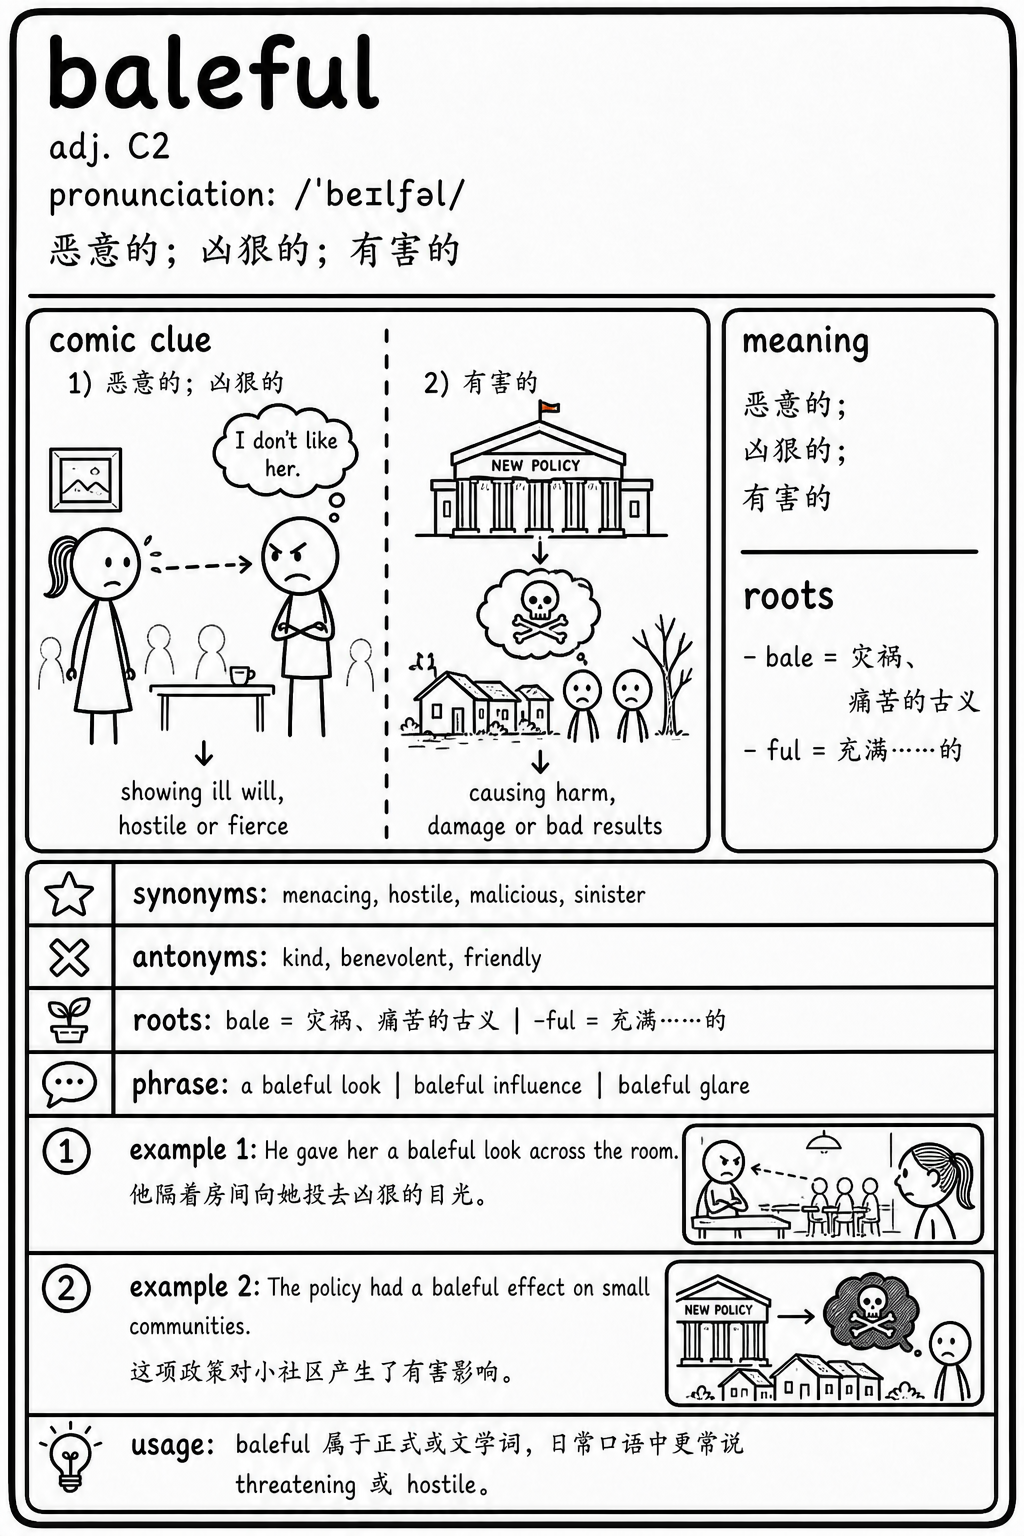
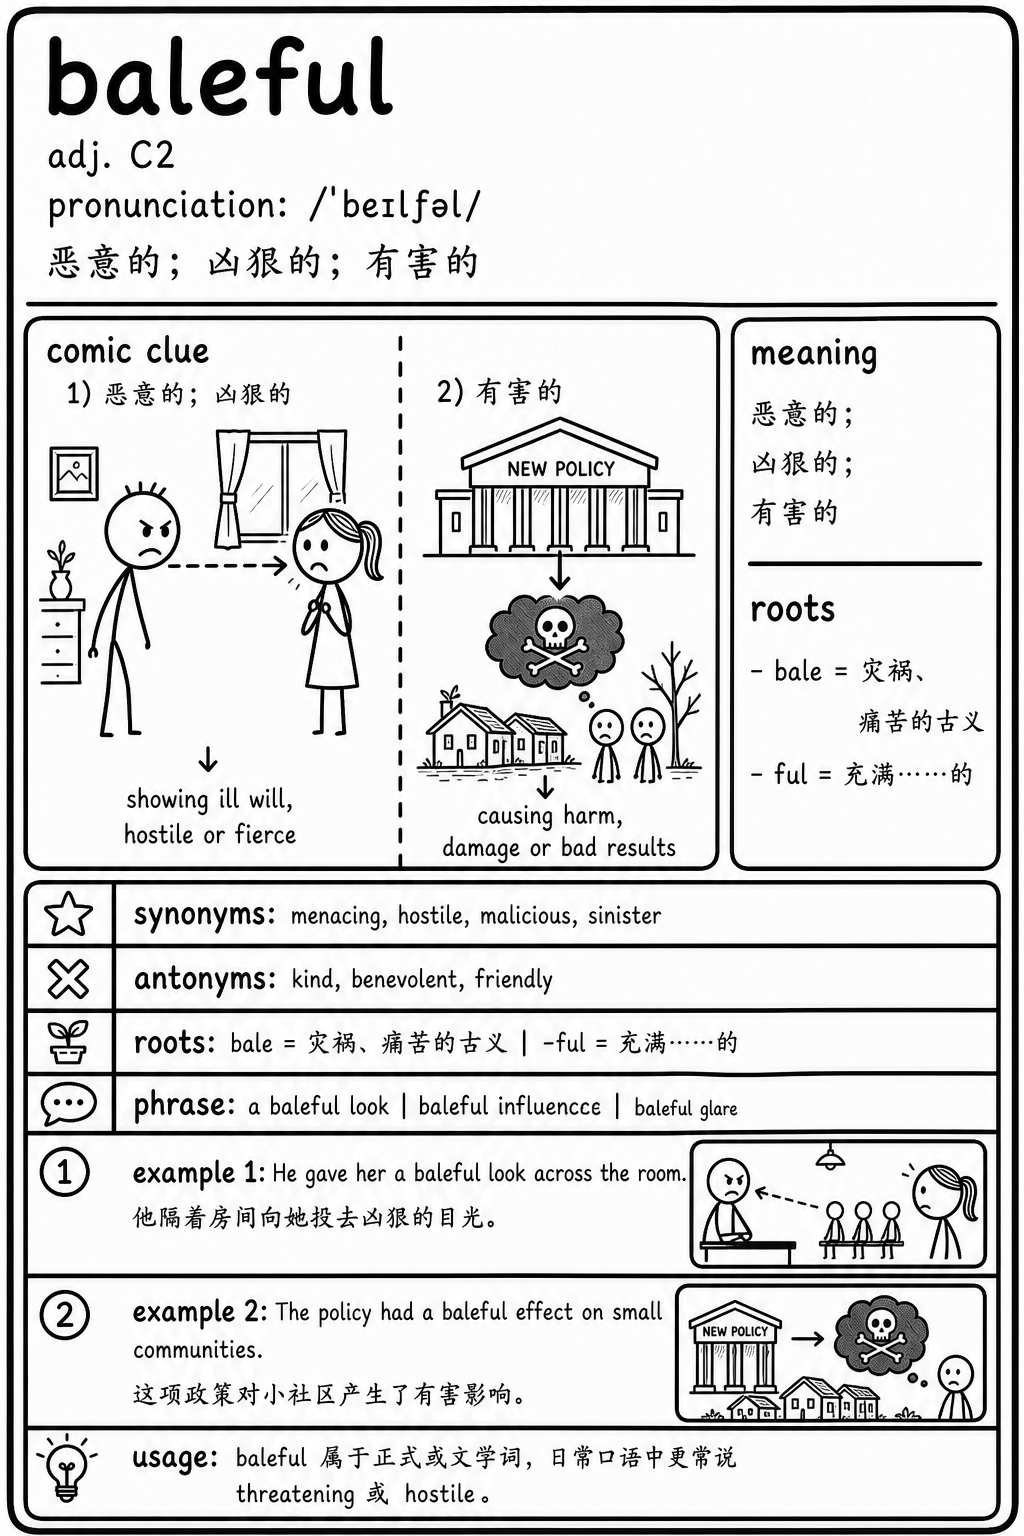
Add second word card checkpoint

Changed region(s): [[0.0, 0.0, 1.0, 1.0]]

diff --git a/progress/status.md b/progress/status.md
@@ -25,12 +25,16 @@ Started: 2026-06-19
 - `0101-0110`: completed by subagent `019edff9-0968-7c32-b461-2a9983a94635`
 - `0111-0120`: completed by subagent `019ee026-546b-78f0-b4ff-3df1d6525f0c`
 - `0121-0130`: completed by subagent `019ee026-54dc-7c51-87fe-db67f1ef3255`
-- `0131-0140`: assigned to subagent `019edff7-b378-7472-9c68-c4c40bd0d50c`
-- `0141-0150`: assigned to subagent `019ee026-546b-78f0-b4ff-3df1d6525f0c`
-- `0151-0160`: assigned to subagent `019edff8-0aed-7da1-b160-c4e73e8f1803`
-- `0161-0170`: assigned to subagent `019ee026-54dc-7c51-87fe-db67f1ef3255`
+- `0131-0140`: completed by subagent `019edff7-b378-7472-9c68-c4c40bd0d50c`
+- `0141-0150`: completed by subagent `019ee026-546b-78f0-b4ff-3df1d6525f0c`
+- `0151-0160`: completed by subagent `019edff8-0aed-7da1-b160-c4e73e8f1803`
+- `0161-0170`: completed by subagent `019ee026-54dc-7c51-87fe-db67f1ef3255`; `0165-handicapped.png` has a noted layout issue because the saved candidate omitted the phrase row
 - `0171-0180`: assigned to subagent `019edff7-6120-71c1-9f78-efb303bc3c7d`
 - `0181-0190`: assigned to subagent `019edff9-0968-7c32-b461-2a9983a94635`
+- `0191-0200`: assigned to subagent `019edff7-b378-7472-9c68-c4c40bd0d50c`
+- `0201-0210`: assigned to subagent `019edff8-0aed-7da1-b160-c4e73e8f1803`
+- `0211-0220`: assigned to subagent `019ee026-54dc-7c51-87fe-db67f1ef3255`
+- `0221-0230`: assigned to subagent `019ee026-546b-78f0-b4ff-3df1d6525f0c`
 
 ## Quality Notes
 
@@ -42,6 +46,10 @@ Started: 2026-06-19
 - `0102-timidly.png` was also corrected during the `0101-0110` title audit.
 - `scripts/verify-gpt-image-cards.mjs` now reports duplicate PNG hashes as a quality failure.
 - Subagents were additionally instructed not to run any git commands. Main-agent validation, commits, and pushes should be handled centrally.
+- User instruction update: do not repeatedly regenerate images for layout-only issues. Regenerate only for hard failures: invalid/tiny/wrong-dimension PNG, wrong title/word mismatch, cross-copy, duplicate hash, blank image, or non-card output. Layout/OCR imperfections should be recorded as quality notes instead.
+- `0165-handicapped.png` correction was cancelled as a layout-only retry unless a worker had already produced a replacement before the cancellation.
+- `0165-handicapped.png` latest saved replacement passes hard checks and title-match, but still lacks the phrase row. This remains a quality note, not a regeneration blocker.
+- `0145-spacious.png` may omit the phrase row; `0146-baleful.png` has a minor OCR typo in a phrase. These are quality notes, not regeneration blockers.
 
 ## Generated Cards
 
